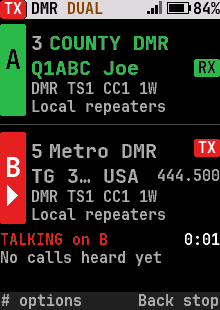
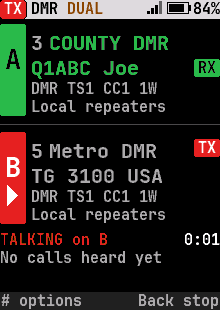
Dual watch: names whole again beside the signal meter's details
330ad487 left 34 layout problems (upstream main has none):

- Row 2 of a DMR pane reserved no room for the talkgroup, so the
  frequency or "Heard 4s ago" at its right cut it ("TG 3...USA") and
  the Busy word was drawn over it. The name comes first again; the
  right side yields (to "4s ago", or not at all).
- Row 3 of an FM pane ("T100.0 25k 1W SQ5") had no shorter form, so
  the PTT pill never fit there and went to row 1, cutting the channel
  name. Row 3 now drops the squelch, then the power, where room is
  short, and the pill's place is decided on its narrowest form
  (gfx_text_width_min).

A DMR pane on the 240x320 layout shows its frequency only where the
talkgroup leaves room. uiSim --layout: 0 problems. Gallery: only the
dual watch screens changed.

Changed region(s): [[0.3545, 0.5226, 1.0, 0.6097]]

diff --git a/core/ui/ui_screens.c b/core/ui/ui_screens.c
@@ -2938,7 +2938,7 @@ static const font_t *dual_name_font(const ui_state_t *s, int i, const font_t *nf
 // Row 3's text: a DMR channel's frequency then its chips, else the chips. At their widest (440.6125, CC12) they
 // overflow the narrowest row they share (240 px less a bezel inset, the big font), so the shorter forms give up the
 // gap, then the unit, never a digit: the end was cut there before ("CC1", #837)
-static char dual_r3[80];	// its three forms: static, the ui task's stack is tight
+static char dual_r3[112];	// its three forms: static, the ui task's stack is tight
 
 static void dual_row3(const ui_dual_pane_t *p, char *buf, size_t len)
 {
@@ -2958,18 +2958,27 @@ static void dual_row3(const ui_dual_pane_t *p, char *buf, size_t len)
 		sb_str(&b, ui_power_name(p->power, p->tx_hz));
 		sb_str(&b, TEXT_ALT_CLOSE);
 		return;
-	} else if (p->mode == RADIO_MODE_P25 || p->mode == RADIO_MODE_NXDN)
-		sb_str(&b, ui_mode_name(p->mode));
-	else if (p->no_tone && !p->am) {
-		sb_str(&b, p->bw == RADIO_BW_25K ? "25k" : "12.5k");
-	} else
-		sb_str(&b, p->detail);
-	sb_chr(&b, ' ');
-	sb_str(&b, ui_power_name(p->power, p->tx_hz));
-	if (p->mode == RADIO_MODE_FM && !p->am) {
-		sb_str(&b, " SQ");
-		sb_u32(&b, p->squelch, 1);
 	}
+	// The whole row where it fits, else without the squelch, else without the power too: the PTT pill may need the
+	// room (dual_pane's pill3), and a channel's tone and bandwidth say more than either
+	const char *what = p->mode == RADIO_MODE_P25 || p->mode == RADIO_MODE_NXDN ? ui_mode_name(p->mode) :
+		p->no_tone && !p->am ? (p->bw == RADIO_BW_25K ? "25k" : "12.5k") : p->detail;
+	bool sq = p->mode == RADIO_MODE_FM && !p->am;
+	sb_str(&b, TEXT_ALT_OPEN);
+	for (unsigned k = sq ? 0 : 1; k < 3; k++) {
+		if (k > (sq ? 0u : 1u))
+			sb_str(&b, TEXT_ALT_NEXT);
+		sb_str(&b, what);
+		if (k < 2) {
+			sb_chr(&b, ' ');
+			sb_str(&b, ui_power_name(p->power, p->tx_hz));
+		}
+		if (k == 0) {
+			sb_str(&b, " SQ");
+			sb_u32(&b, p->squelch, 1);
+		}
+	}
+	sb_str(&b, TEXT_ALT_CLOSE);
 	return;
 #endif
 	if (p->mode != RADIO_MODE_DMR || p->vfo) {
@@ -3072,7 +3081,7 @@ static void dual_pane(const radio_view_t *v, const ui_state_t *s, int i, int y, 
 		}
 		// Row 3 has room for it after the frequency and chips
 		dual_row3(p, dual_r3, sizeof dual_r3);
-		int room3 = w - x0 - gfx_text_width(ft->detail, dual_r3) - 2 * ft->detail->w;
+		int room3 = w - x0 - gfx_text_width_min(ft->detail, dual_r3) - 2 * ft->detail->w;
 		pill3 = x0 + need > w - dual_pill_w(word) - sm->w / 2 - 1 && room3 >= dual_pill_w(word);
 	}
 	if ((tx || sel) && !pill3) {
@@ -3174,7 +3183,7 @@ static void dual_pane(const radio_view_t *v, const ui_state_t *s, int i, int y, 
 		gfx_pill(sm, r2, y2 + (tf->h - pill_h + 1) / 2, pill_h, "RX", ui_col.pill_dark_fg, ui_col.rx);
 		r2 -= sm->w / 2 + 1;
 	} else if (right[0]) {
-		int need = CONFIG_SIGNAL_METER && p->mode == RADIO_MODE_DMR ? 0 : gfx_text_width(tf, buf) + sm->w;
+		int need = gfx_text_width(tf, buf) + sm->w;	// the name or target whole first: the right side yields
 		int nx = dual_right(sm, w, y2, tf->h, x0 + need, right, rc);
 		if (nx < w)
 			r2 = nx - sm->w;

diff --git a/core/ui/gfx.h b/core/ui/gfx.h
@@ -93,6 +93,8 @@ int gfx_text(const font_t *f, int x, int y, const char *s, color_t fg);
 // The same with each glyph cell filled with bg first
 int gfx_text_bg(const font_t *f, int x, int y, const char *s, color_t fg, color_t bg);
 int gfx_text_width(const font_t *f, const char *s);
+// The width of s's narrowest set of text alternates (font.h), the least gfx_text_fit can draw it in without shortening
+int gfx_text_width_min(const font_t *f, const char *s);
 // Text alternates (font.h): s with every group at its alternative number level (or its last one) into out; *more says
 // whether a higher level would give something different. Returns the length
 size_t gfx_text_alt(const char *s, int level, char *out, size_t cap, bool *more);

diff --git a/core/ui/gfx.c b/core/ui/gfx.c
@@ -877,6 +877,22 @@ void gfx_text_fit_end(const font_t *f, const char *s, int max_w, char *out, size
 }
 #endif
 
+int gfx_text_width_min(const font_t *f, const char *s)
+{
+	if (!strchr(s, TEXT_ALT_OPEN[0]))
+		return gfx_text_width(f, s);
+	char alt[ALT_TEXT_MAX];
+	int least = -1;
+	bool more = true;
+	for (int level = 0; more; level++) {
+		alt_expand(s, level, alt, sizeof alt, &more);
+		int w = gfx_text_width(f, alt);
+		if (least < 0 || w < least)
+			least = w;
+	}
+	return least;
+}
+
 void gfx_text_fit(const font_t *f, const char *src, int max_w, char *out, size_t out_len)
 {
 	if (out_len == 0)
